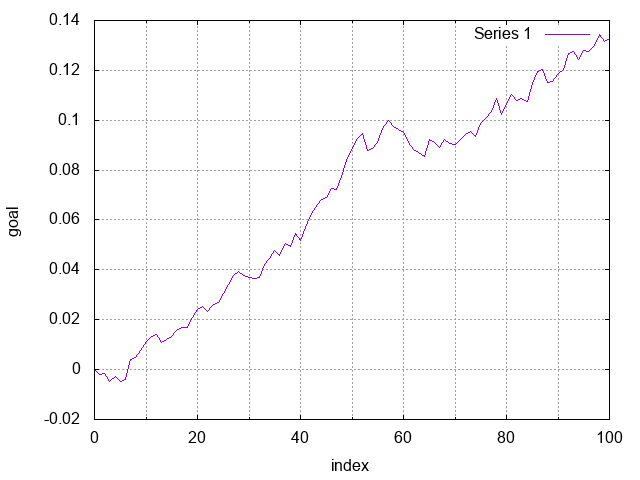
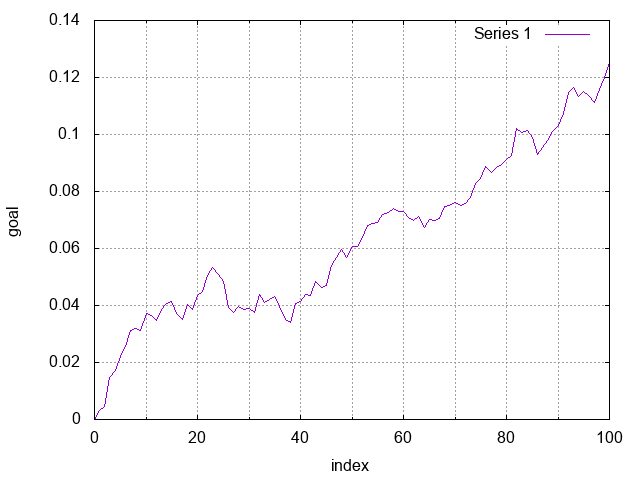
Using consistent sample sizes

diff --git a/src/index.js b/src/index.js
@@ -6,7 +6,7 @@
  * Returns an array with the times of each arrival in a [Poisson Process](http://en.wikipedia.org/wiki/Poisson_process) with rate lambda until time T. 
  * 
  * ![poissP](out/poissP.png)
- * @example var poissP = stoch.poissP(1, 60, true);
+ * @example var poissP = stoch.poissP(1, 100, true);
  * @param {number} lambda (rate)
  * @param {number} T time as positive number
  * @param {boolean} [path=true] 

diff --git a/examples/poissP.js b/examples/poissP.js
@@ -4,7 +4,7 @@ var plot = require('plotter').plot;
 var stoch = require('../src/index');
 var report = require('./report');
 
-var poissP = stoch.poissP(1, 60, true);
+var poissP = stoch.poissP(1, 100, true);
 
 console.log(poissP);
 

diff --git a/README.md b/README.md
@@ -30,7 +30,7 @@ Returns an array with the times of each arrival in a [Poisson Process](http://en
 **Examples**
 
 ```javascript
-var poissP = stoch.poissP(1, 60, true);
+var poissP = stoch.poissP(1, 100, true);
 ```
 
 Returns **[Array](https://developer.mozilla.org/en-US/docs/Web/JavaScript/Reference/Global_Objects/Array)&lt;[number](https://developer.mozilla.org/en-US/docs/Web/JavaScript/Reference/Global_Objects/Number)>** times of each arrival in a Poisson Process
